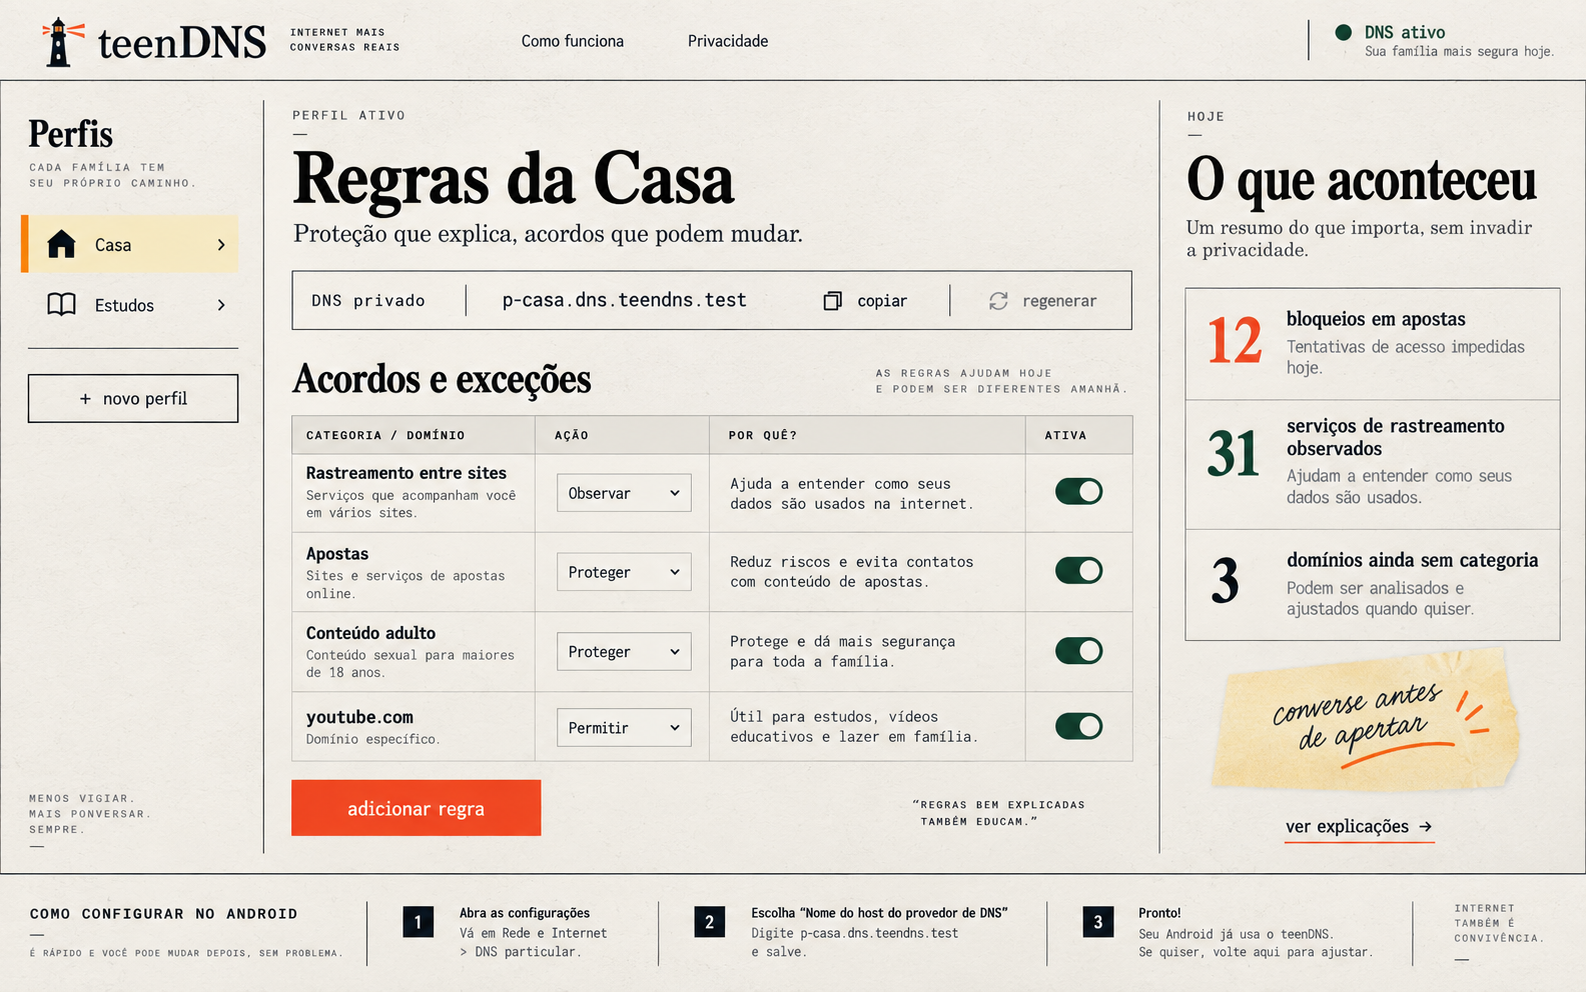
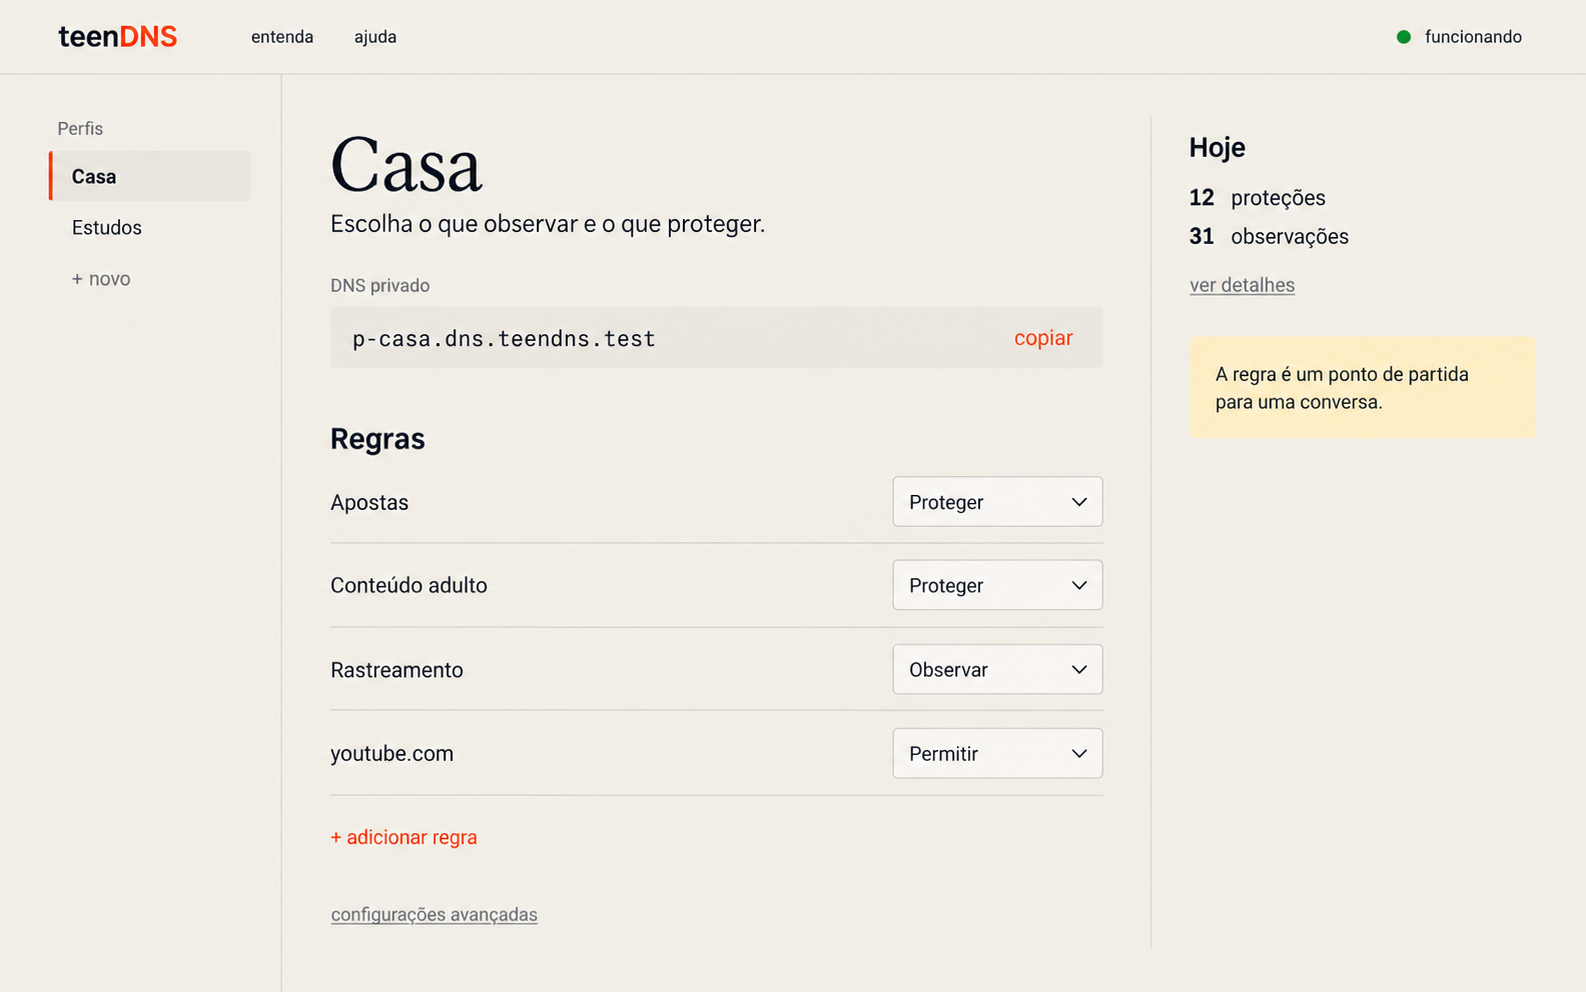
docs: simplify interface visual direction

diff --git a/docs/design-system.md b/docs/design-system.md
@@ -5,9 +5,9 @@ Os conceitos de referência estão em [`design/concepts`](../design/concepts/).
 
 ## Ideia visual
 
-O teenDNS deve parecer uma mistura de cartilha cívica brasileira e instrumento
-de rede doméstico: claro, direto e humano. A interface usa hierarquia editorial,
-linhas, tabelas e anotações. Ela não imita o padrão visual de produtos de IA.
+O teenDNS deve parecer uma cartilha editorial calma: claro, direto e humano.
+A primeira camada mostra somente a escolha cotidiana. Explicações, eventos e
+opções técnicas aparecem apenas quando a pessoa pede mais profundidade.
 
 Evitar:
 
@@ -25,7 +25,7 @@ Evitar:
 | `ink` | `#111713` | texto e linhas principais |
 | `forest` | `#0c4a35` | estados permitidos e faixas explicativas |
 | `signal` | `#f04422` | ação principal, bloqueio e numeração |
-| `note` | `#f6dda0` | notas educativas e seleção discreta |
+| `note` | `#f6dda0` | uma nota educativa pontual |
 | `muted` | `#61665f` | texto secundário |
 | `line` | `#9b9b91` | divisórias finas |
 
@@ -42,7 +42,7 @@ Evitar:
 - Bordas de `1px`, sombras apenas quando representam papel sobre papel.
 - Escala de espaço: `4, 8, 12, 16, 24, 32, 48, 72px`.
 - Conteúdo público limitado a `1312px`; painel ocupa a largura disponível.
-- Componentes principais são trilhos, listas, tabelas, faixas e gavetas.
+- Componentes principais são trilhos, listas abertas, faixas e gavetas.
 
 ## Componentes
 
@@ -50,7 +50,7 @@ Evitar:
 - **Botão primário:** fundo `signal`, texto branco, altura mínima de `48px`.
 - **Botão secundário:** fundo transparente, borda `ink`.
 - **Links:** sublinhado fino, seta SVG quando indicam avanço.
-- **Tabela de regras:** linhas abertas, cabeçalho monoespaçado, ações editáveis.
+- **Lista de regras:** nome e ação em linhas abertas; motivo só no segundo nível.
 - **Estado:** ponto preenchido mais texto; não usar selo em formato de pílula.
 - **Gaveta de edição:** painel lateral com borda, motivo obrigatório e ações claras.
 - **Foco:** contorno de `3px` em `note`, com contraste sobre todos os fundos.
@@ -64,7 +64,7 @@ Evitar:
 ## Responsividade
 
 - Em telas menores que `900px`, o trilho de perfis vira uma faixa horizontal.
-- Tabelas de regra viram uma lista linear, preservando motivo e ação.
+- As regras continuam como uma lista linear, preservando nome e ação.
 - A página pública mantém a ordem editorial; diagramas se reorganizam em coluna.
 - Nenhuma ação principal depende de hover.
 
@@ -73,24 +73,30 @@ Evitar:
 ### Página pública
 
 - `teenDNS`
-- `Como funciona`, `Princípios`, `Configurar`, `abrir painel`
-- `Controle parental que começa uma conversa.`
-- `O teenDNS protege no nível da rede, explica os motivos e ajuda famílias a construir acordos — sem transformar cuidado em vigilância.`
-- `entender como funciona`, `configurar no Android`
+- `como funciona`, `configurar`, `abrir painel`
+- `Cuidar da internet sem vigiar.`
+- `O teenDNS ajuda famílias a observar, conversar e proteger — usando apenas o endereço dos serviços, nunca mensagens ou páginas.`
+- `entender em 1 minuto`
 
 ### Painel
 
-- `teenDNS`, `Como funciona`, `Privacidade`, `DNS ativo`
+- `teenDNS`, `entenda`, `ajuda`, `funcionando`
 - `Perfis`, `Casa`, `Estudos`, `+ novo perfil`
-- `Regras da Casa`
-- `Proteção que explica, acordos que podem mudar.`
-- `DNS privado`, `copiar`, `regenerar`
-- `Acordos e exceções`, `adicionar regra`, `O que aconteceu`
+- `Casa`
+- `Escolha o que observar e o que proteger.`
+- `DNS privado`, `copiar`
+- `Regras`, `+ adicionar regra`, `Hoje`, `ver detalhes`
+
+## Regra de profundidade
+
+O painel inicial não mostra motivo por regra, regeneração de hostname, histórico,
+passo a passo ou controles avançados. Esses elementos continuam disponíveis em
+gavetas ou páginas secundárias, sem competir com a tarefa principal.
 
 ## Referências de implementação
 
 - [`admin-dashboard.png`](../design/concepts/admin-dashboard.png): viewport `1440 × 900`.
-- [`explainer-page.png`](../design/concepts/explainer-page.png): viewport `1440 × 1100`.
+- [`explainer-page.png`](../design/concepts/explainer-page.png): viewport `1440 × 1000`.
 
 As imagens são especificações visuais, não assets de interface. Textos, controles,
 ícones e diagramas devem continuar acessíveis e nativos em HTML, CSS e SVG.
